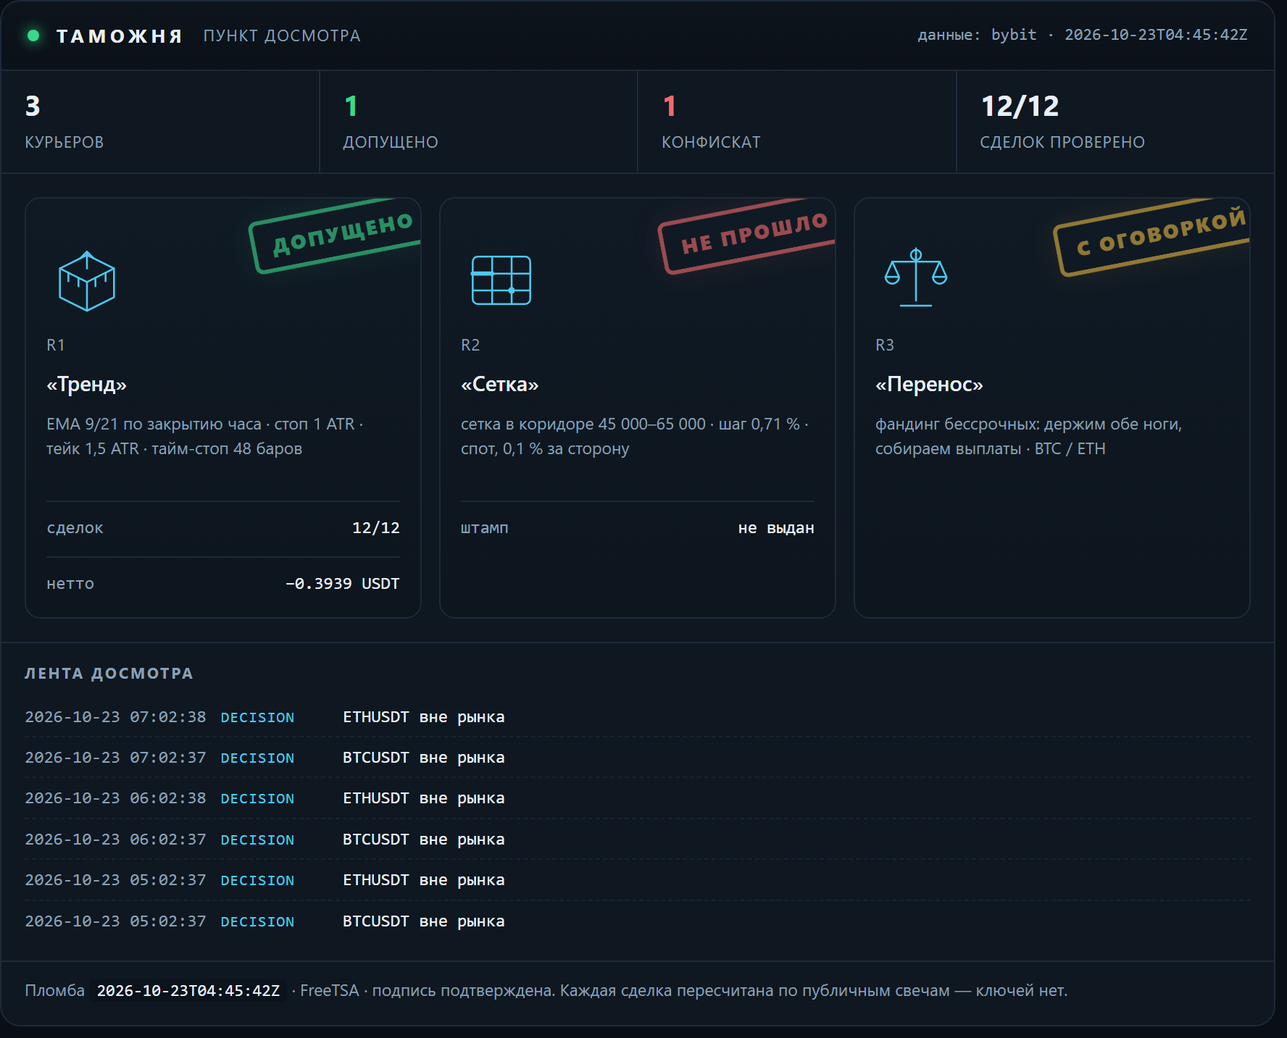
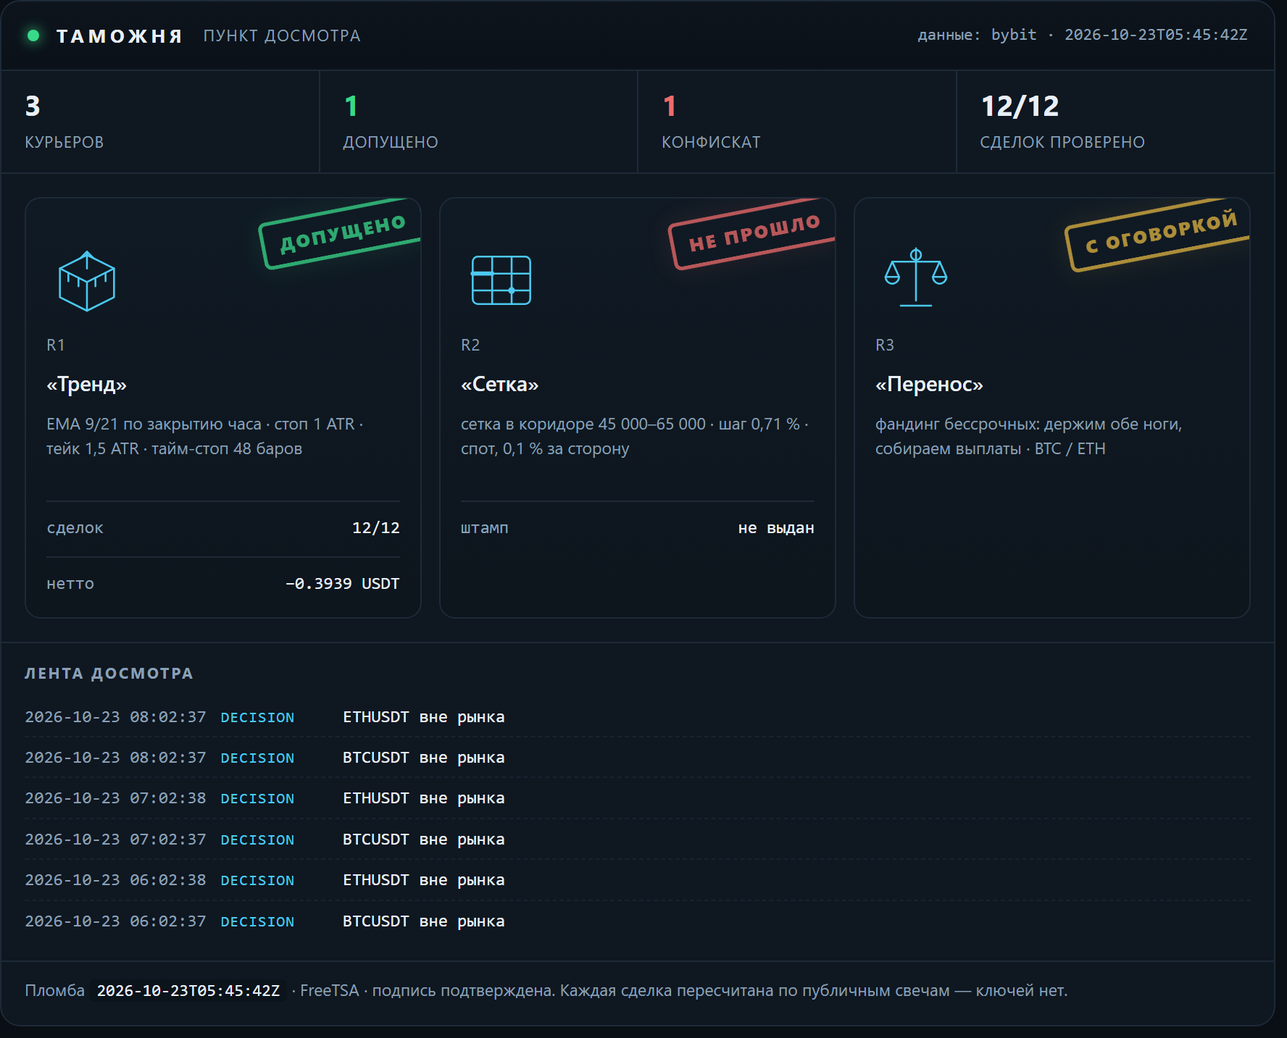
lab: таможня — свежие числа досмотра

Changed region(s): [[0.8052, 0.1842, 0.96, 0.2763], [0.4955, 0.1842, 0.6503, 0.2763], [0.1858, 0.1842, 0.3407, 0.2763]]

diff --git a/docs/customs.html b/docs/customs.html
@@ -16,7 +16,7 @@
   <h1><a href="index.html">Gramwright Lab</a></h1>
   <p>Журнал проверки торговых гипотез: что проверяли, что вышло по факту, сколько съели издержки. Числа берутся из журнала стенда. Не инвестиционная рекомендация.</p>
 </header>
-<h1>Таможня</h1><p class="intro">Пункт досмотра заявленных результатов. Стратегии приезжают с грузом обещаний, и каждая проходит проверку по публичным данным биржи: цены существуют, комиссии по тарифу, нетто сходится. Что прошло — получает штамп. Что не прошло — в конфискат, с причиной. Штамп означает «записи подлинные», а не «стратегия прибыльна».</p><p><img src="img/customs.png" alt="Терминал досмотра: три курьера, штампы, лента событий" style="width:100%;height:auto;border:1px solid var(--line);border-radius:10px"></p><p class="c-note">Сверху — тот же терминал, что собирается из журналов: счётчики, эмблемы курьеров, штампы и лента последних событий. Ниже — то же самое текстом, чтобы читалось с телефона и индексировалось поиском.</p><article><h2>R1 «Тренд» <span class="verdict">— <span class="c-ok">допущено</span></span></h2><p><strong>Правило:</strong> EMA 9/21 по закрытию часа · стоп 1 ATR · тейк 1,5 ATR · тайм-стоп 48 баров</p><p><strong>Декларация:</strong> Заявлено до прогона: держать 30 сделок, лимит нотионала 10 % от счёта, стоп дня −1 %. Прибыль не заявлялась — это важно: курьер не обещал доход.</p><p><strong>Проверено по публичным свечам, без ключей:</strong> 12 из 12 сделок. Сумма нетто −0.3939 USDT.</p><ul class="c-chk"><li class="y">BTCUSDT: нетто −0.8746 USDT · комиссии 0.0901 · проверено · с поправкой</li><li class="y">BTCUSDT: нетто −0.5441 USDT · комиссии 0.0896 · проверено</li><li class="y">ETHUSDT: нетто −0.2253 USDT · комиссии 0.0266 · проверено</li><li class="y">ETHUSDT: нетто −0.1513 USDT · комиссии 0.0265 · проверено</li><li class="y">ETHUSDT: нетто +0.1984 USDT · комиссии 0.0262 · проверено</li><li class="y">ETHUSDT: нетто +0.1617 USDT · комиссии 0.0260 · проверено</li><li class="y">ETHUSDT: нетто +0.2645 USDT · комиссии 0.0263 · проверено</li><li class="y">BTCUSDT: нетто +0.6246 USDT · комиссии 0.0897 · проверено</li><li class="y">BTCUSDT: нетто −0.5881 USDT · комиссии 0.0910 · проверено</li><li class="y">ETHUSDT: нетто −0.2403 USDT · комиссии 0.0270 · проверено</li><li class="y">BTCUSDT: нетто +0.6908 USDT · комиссии 0.0908 · проверено</li><li class="y">ETHUSDT: нетто +0.2898 USDT · комиссии 0.0267 · проверено</li></ul><p class="tags">журнал sha256 dca6a3ef74cb8aed… · проверяльщик verify-1</p><p class="c-note">Штамп означает: записи подлинные, а не что стратегия прибыльна. Курьер в минусе, и минус тоже стоит на штампе — иначе это была бы не проверка, а реклама.</p><p class="tags">источник: verify-report.json</p></article><article><h2>R2 «Сетка» <span class="verdict">— <span class="c-bad">не прошло</span></span></h2><p><strong>Правило:</strong> сетка в коридоре 45 000–65 000 · шаг 0,71 % · спот, 0,1 % за сторону</p><p><strong>Декларация:</strong> Заявлено: «44 % урожая уходит бирже в виде комиссий». Кроме того — перевес над простым владением монетой.</p><p><strong>Что сошлось:</strong></p><ul class="c-chk"><li class="y">сами числа пересчитаны и воспроизводятся: коридор 45–65k был активен 23 % всей истории и 28 % последних двух лет</li></ul><p><strong>Что не сошлось:</strong></p><ul class="c-chk"><li class="n">44 % не подтвердилось: при шаге 0,71 % и тарифе 0,1 % комиссия съедает 28,3 % шага. Чтобы получить 44 %, нужен шаг 0,45 % — это около 80 уровней, а не 50</li><li class="n">от урожая доля комиссий 85,5 % за всю историю и 49,6 % за последние два года — тоже не 44 %</li><li class="n">перевес над владением посчитан на тарифе 0,055 %: при нём +1,32 п. п., на розничном 0,1 % — −0,72 п. п. То есть перевес исчезает</li><li class="n">семилетний тест стартовал в сентябре 2019 при биткоине около 10 000 — ниже коридора. Он говорит, что фиксированный коридор не подходит для периода, а не что сетка отстаёт</li></ul><p class="tags">источник: lab_grid.py, пересчёт 17.10.2026</p></article><article><h2>R3 «Перенос» <span class="verdict">— <span class="c-warn">с оговоркой</span></span></h2><p><strong>Правило:</strong> фандинг бессрочных: держим обе ноги, собираем выплаты · BTC / ETH</p><p><strong>Декларация:</strong> Заявлено: около 11,9 % в год от выплат фандинга при просадке выплатной кривой меньше 2 %.</p><p><strong>Что сошлось:</strong></p><ul class="c-chk"><li class="y">выплаты взяты из публичной истории биржи, ключей не нужно: BTC — 7 190 выплат с 25.03.2020, ETH — 6 561 с 21.10.2020</li><li class="y">сумма сходится: +83,4 % и +83,2 % за 6,6 и 6,0 года — те самые ~11,9 % в год</li><li class="y">худшая просадка выплатной кривой: −1,65 % и −1,97 %</li></ul><p><strong>Что не сошлось:</strong></p><ul class="c-chk"><li class="n">оговорка 1: премию сжали — 2021 год дал +38,3 %, 2026 — +1,96 %. Прошлое не повторяется</li><li class="n">оговорка 2: вход-выход стоит около 0,31 %, капитала нужно 1,2 от нотионала, текущий базис −0,082 % против входа</li><li class="n">оговорка 3: риск площадки. История FTX в этой же таблице выглядела так же прилично</li></ul><p class="tags">источник: публичная история фандинга Bybit, замер 17.10.2026</p></article><div class="c-conf"><h3>Конфискат</h3><p><strong>«Сетка»: заявленные 44 % комиссий не подтвердились.</strong> Досмотр показал 28,3 % от шага и 85,5 % от урожая — цифра хуже заявленной по форме, но лучше по смыслу: сетку убивает не размер шага, а то, что урожай почти весь уходит в комиссии. Это и вышло в выпуск — с поправкой, а не с красивой цифрой.</p></div><p class="c-note">Пломба: <code>2026-10-23T04:45:42Z</code> · нотариус FreeTSA · Oct 23 04:45:42 2026 GMT · подпись подтверждена. Манифест скрепляет отчёт проверки, журнал сделок и декларации курьеров: подменишь любую цифру — пломба перестанет сходиться.</p><p class="c-note">Досмотр идёт по публичным минутным свечам и публичной истории фандинга — ключей у проверяющего нет, и он может повторить проверку сам.</p><p class="c-note">Контент образовательный, не является инвестиционной рекомендацией. Торговля связана с риском потери капитала.</p>
+<h1>Таможня</h1><p class="intro">Пункт досмотра заявленных результатов. Стратегии приезжают с грузом обещаний, и каждая проходит проверку по публичным данным биржи: цены существуют, комиссии по тарифу, нетто сходится. Что прошло — получает штамп. Что не прошло — в конфискат, с причиной. Штамп означает «записи подлинные», а не «стратегия прибыльна».</p><p><img src="img/customs.png" alt="Терминал досмотра: три курьера, штампы, лента событий" style="width:100%;height:auto;border:1px solid var(--line);border-radius:10px"></p><p class="c-note">Сверху — тот же терминал, что собирается из журналов: счётчики, эмблемы курьеров, штампы и лента последних событий. Ниже — то же самое текстом, чтобы читалось с телефона и индексировалось поиском.</p><article><h2>R1 «Тренд» <span class="verdict">— <span class="c-ok">допущено</span></span></h2><p><strong>Правило:</strong> EMA 9/21 по закрытию часа · стоп 1 ATR · тейк 1,5 ATR · тайм-стоп 48 баров</p><p><strong>Декларация:</strong> Заявлено до прогона: держать 30 сделок, лимит нотионала 10 % от счёта, стоп дня −1 %. Прибыль не заявлялась — это важно: курьер не обещал доход.</p><p><strong>Проверено по публичным свечам, без ключей:</strong> 12 из 12 сделок. Сумма нетто −0.3939 USDT.</p><ul class="c-chk"><li class="y">BTCUSDT: нетто −0.8746 USDT · комиссии 0.0901 · проверено · с поправкой</li><li class="y">BTCUSDT: нетто −0.5441 USDT · комиссии 0.0896 · проверено</li><li class="y">ETHUSDT: нетто −0.2253 USDT · комиссии 0.0266 · проверено</li><li class="y">ETHUSDT: нетто −0.1513 USDT · комиссии 0.0265 · проверено</li><li class="y">ETHUSDT: нетто +0.1984 USDT · комиссии 0.0262 · проверено</li><li class="y">ETHUSDT: нетто +0.1617 USDT · комиссии 0.0260 · проверено</li><li class="y">ETHUSDT: нетто +0.2645 USDT · комиссии 0.0263 · проверено</li><li class="y">BTCUSDT: нетто +0.6246 USDT · комиссии 0.0897 · проверено</li><li class="y">BTCUSDT: нетто −0.5881 USDT · комиссии 0.0910 · проверено</li><li class="y">ETHUSDT: нетто −0.2403 USDT · комиссии 0.0270 · проверено</li><li class="y">BTCUSDT: нетто +0.6908 USDT · комиссии 0.0908 · проверено</li><li class="y">ETHUSDT: нетто +0.2898 USDT · комиссии 0.0267 · проверено</li></ul><p class="tags">журнал sha256 a94fc987d8bbb318… · проверяльщик verify-1</p><p class="c-note">Штамп означает: записи подлинные, а не что стратегия прибыльна. Курьер в минусе, и минус тоже стоит на штампе — иначе это была бы не проверка, а реклама.</p><p class="tags">источник: verify-report.json</p></article><article><h2>R2 «Сетка» <span class="verdict">— <span class="c-bad">не прошло</span></span></h2><p><strong>Правило:</strong> сетка в коридоре 45 000–65 000 · шаг 0,71 % · спот, 0,1 % за сторону</p><p><strong>Декларация:</strong> Заявлено: «44 % урожая уходит бирже в виде комиссий». Кроме того — перевес над простым владением монетой.</p><p><strong>Что сошлось:</strong></p><ul class="c-chk"><li class="y">сами числа пересчитаны и воспроизводятся: коридор 45–65k был активен 23 % всей истории и 28 % последних двух лет</li></ul><p><strong>Что не сошлось:</strong></p><ul class="c-chk"><li class="n">44 % не подтвердилось: при шаге 0,71 % и тарифе 0,1 % комиссия съедает 28,3 % шага. Чтобы получить 44 %, нужен шаг 0,45 % — это около 80 уровней, а не 50</li><li class="n">от урожая доля комиссий 85,5 % за всю историю и 49,6 % за последние два года — тоже не 44 %</li><li class="n">перевес над владением посчитан на тарифе 0,055 %: при нём +1,32 п. п., на розничном 0,1 % — −0,72 п. п. То есть перевес исчезает</li><li class="n">семилетний тест стартовал в сентябре 2019 при биткоине около 10 000 — ниже коридора. Он говорит, что фиксированный коридор не подходит для периода, а не что сетка отстаёт</li></ul><p class="tags">источник: lab_grid.py, пересчёт 17.10.2026</p></article><article><h2>R3 «Перенос» <span class="verdict">— <span class="c-warn">с оговоркой</span></span></h2><p><strong>Правило:</strong> фандинг бессрочных: держим обе ноги, собираем выплаты · BTC / ETH</p><p><strong>Декларация:</strong> Заявлено: около 11,9 % в год от выплат фандинга при просадке выплатной кривой меньше 2 %.</p><p><strong>Что сошлось:</strong></p><ul class="c-chk"><li class="y">выплаты взяты из публичной истории биржи, ключей не нужно: BTC — 7 190 выплат с 25.03.2020, ETH — 6 561 с 21.10.2020</li><li class="y">сумма сходится: +83,4 % и +83,2 % за 6,6 и 6,0 года — те самые ~11,9 % в год</li><li class="y">худшая просадка выплатной кривой: −1,65 % и −1,97 %</li></ul><p><strong>Что не сошлось:</strong></p><ul class="c-chk"><li class="n">оговорка 1: премию сжали — 2021 год дал +38,3 %, 2026 — +1,96 %. Прошлое не повторяется</li><li class="n">оговорка 2: вход-выход стоит около 0,31 %, капитала нужно 1,2 от нотионала, текущий базис −0,082 % против входа</li><li class="n">оговорка 3: риск площадки. История FTX в этой же таблице выглядела так же прилично</li></ul><p class="tags">источник: публичная история фандинга Bybit, замер 17.10.2026</p></article><div class="c-conf"><h3>Конфискат</h3><p><strong>«Сетка»: заявленные 44 % комиссий не подтвердились.</strong> Досмотр показал 28,3 % от шага и 85,5 % от урожая — цифра хуже заявленной по форме, но лучше по смыслу: сетку убивает не размер шага, а то, что урожай почти весь уходит в комиссии. Это и вышло в выпуск — с поправкой, а не с красивой цифрой.</p></div><p class="c-note">Пломба: <code>2026-10-23T05:45:42Z</code> · нотариус FreeTSA · Oct 23 05:45:42 2026 GMT · подпись подтверждена. Манифест скрепляет отчёт проверки, журнал сделок и декларации курьеров: подменишь любую цифру — пломба перестанет сходиться.</p><p class="c-note">Досмотр идёт по публичным минутным свечам и публичной истории фандинга — ключей у проверяющего нет, и он может повторить проверку сам.</p><p class="c-note">Контент образовательный, не является инвестиционной рекомендацией. Торговля связана с риском потери капитала.</p>
 <footer class="site">
   Код стенда и аудитора: <a href="https://github.com/XSlaidx/truth-engine">XSlaidx/truth-engine</a>
   &middot; <a href="graveyard.html">кладбище правил</a>
